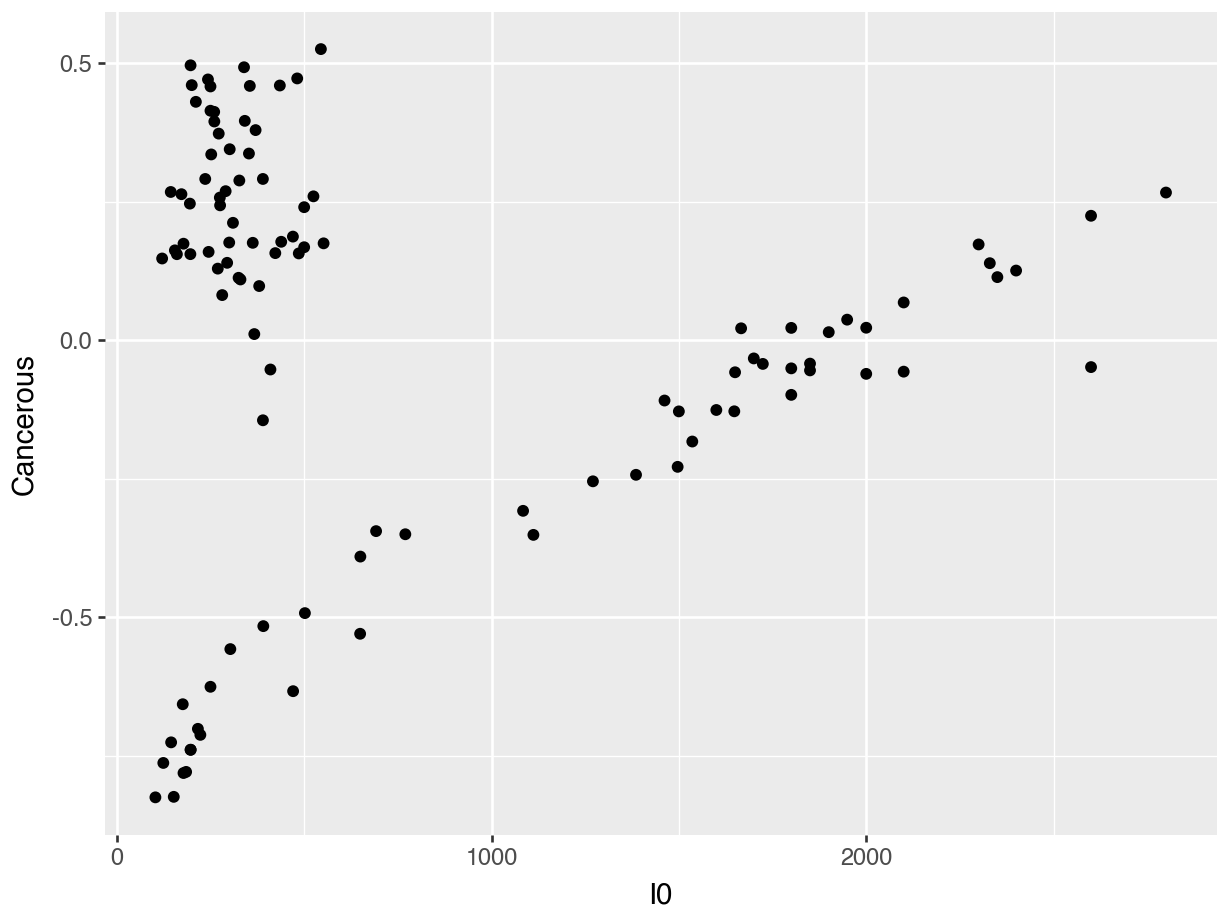
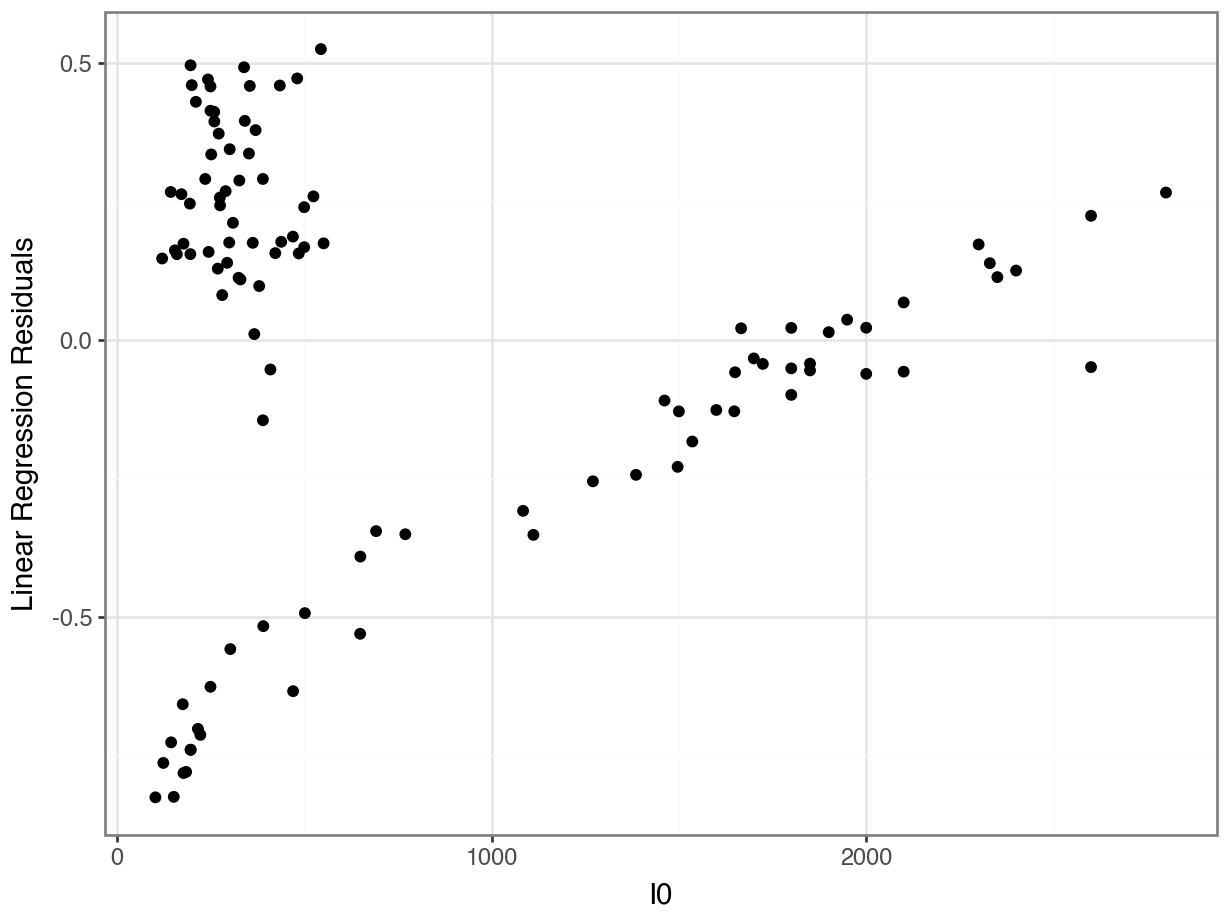
adjustments to slides for today

Changed region(s): [[0.0928, 0.0, 1.0, 0.9121], [0.0, 0.2432, 0.0309, 0.6688]]

diff --git a/docs/slides/12-logistic.html b/docs/slides/12-logistic.html
@@ -397,8 +397,8 @@
 
 </section>
 <section>
-<section id="the-story-so-far.." class="title-slide slide level1 center">
-<h1>The story so far..</h1>
+<section id="the-story-this-week" class="title-slide slide level1 center">
+<h1>The story this week…</h1>
 
 </section>
 <section id="classification" class="slide level2">
@@ -533,7 +533,7 @@
 <div class="cell">
 <div class="sourceCode cell-code" id="cb8"><pre class="sourceCode python code-with-copy"><code class="sourceCode python"><span id="cb8-1"><a aria-hidden="true" tabindex="-1"></a>pred_cancer.<span class="bu">min</span>()</span></code><button title="Copy to Clipboard" class="code-copy-button"><i class="bi"></i></button></pre></div>
 <div class="cell-output cell-output-stdout">
-<pre><code>np.float64(-0.2666656752041746)</code></pre>
+<pre><code>np.float64(-0.2666656752041747)</code></pre>
 </div>
 </div>
 </div><div class="column" style="width:10%;">
@@ -542,7 +542,7 @@
 <div class="cell">
 <div class="sourceCode cell-code" id="cb10"><pre class="sourceCode python code-with-copy"><code class="sourceCode python"><span id="cb10-1"><a aria-hidden="true" tabindex="-1"></a>pred_cancer.<span class="bu">max</span>()</span></code><button title="Copy to Clipboard" class="code-copy-button"><i class="bi"></i></button></pre></div>
 <div class="cell-output cell-output-stdout">
-<pre><code>np.float64(1.1443978861600579)</code></pre>
+<pre><code>np.float64(1.144397886160058)</code></pre>
 </div>
 </div>
 </div></div>
@@ -612,8 +612,10 @@
 <span id="cb15-3"><a aria-hidden="true" tabindex="-1"></a>(</span>
 <span id="cb15-4"><a aria-hidden="true" tabindex="-1"></a>  ggplot(data <span class="op">=</span> df, </span>
 <span id="cb15-5"><a aria-hidden="true" tabindex="-1"></a>         mapping <span class="op">=</span> aes(x <span class="op">=</span> <span class="st">"I0"</span>, y <span class="op">=</span> residuals)) <span class="op">+</span> </span>
-<span id="cb15-6"><a aria-hidden="true" tabindex="-1"></a>  geom_point()</span>
-<span id="cb15-7"><a aria-hidden="true" tabindex="-1"></a>  )</span></code><button title="Copy to Clipboard" class="code-copy-button"><i class="bi"></i></button></pre></div>
+<span id="cb15-6"><a aria-hidden="true" tabindex="-1"></a>  geom_point() <span class="op">+</span></span>
+<span id="cb15-7"><a aria-hidden="true" tabindex="-1"></a>  theme_bw() <span class="op">+</span></span>
+<span id="cb15-8"><a aria-hidden="true" tabindex="-1"></a>  labs(y <span class="op">=</span> <span class="st">"Linear Regression Residuals"</span>)</span>
+<span id="cb15-9"><a aria-hidden="true" tabindex="-1"></a>  ) </span></code><button title="Copy to Clipboard" class="code-copy-button"><i class="bi"></i></button></pre></div>
 </details>
 </div>
 </div>
@@ -730,9 +732,15 @@
 <ul>
 <li><p>Calculate the <em>precision</em> for predicting cancer.</p></li>
 <li><p>Calculate the <em>recall</em> for predicting cancer.</p></li>
+</ul>
+</div>
+<div class="fragment">
+<div class="midi">
+<ul>
 <li><p>Calculate the <em>precision</em> for predicting non-cancer.</p></li>
 <li><p>Calculate the <em>recall</em> for predicting non-cancer.</p></li>
 </ul>
+</div>
 </div>
 </section>
 <section id="threshold" class="slide level2">
@@ -1012,25 +1020,38 @@
 1      0.801477  PA500</code></pre>
 </div>
 </div>
-<div>
-<ul>
-<li class="fragment"><p>“For every <strong>standard deviation above the mean</strong> someone’s <code>I0</code> is, we predict <strong>2.3 lower</strong> log-odds of cancer”</p></li>
-<li class="fragment"><p>“For every <strong>standard deviation above the mean</strong> someone’s <code>PA500</code> is, we predict <strong>0.80 higher</strong> log-odds of cancer.”</p></li>
-</ul>
 </div>
+</section>
+<section id="standardization-2" class="slide level2">
+<h2>Standardization</h2>
+<div class="cell">
+<div class="cell-output cell-output-stdout">
+<pre><code>   Coefficients Column
+0     -2.309090     I0
+1      0.801477  PA500</code></pre>
+</div>
+</div>
+<ul>
+<li>“For every <strong>standard deviation above the mean</strong> someone’s <code>I0</code> is, we predict <strong>2.3 lower</strong> log-odds of cancer”</li>
+</ul>
+<div class="fragment">
+<ul>
+<li>“For every <strong>standard deviation above the mean</strong> someone’s <code>PA500</code> is, we predict <strong>0.80 higher</strong> log-odds of cancer.”</li>
+</ul>
 </div>
 </section>
 <section id="standardization-do-you-need-it" class="slide level2">
 <h2>Standardization: Do you need it?</h2>
+<div class="midi">
 <p>But - does this approach change our predictions?</p>
 <div class="cell">
-<div class="sourceCode cell-code" id="cb48"><pre class="sourceCode python code-with-copy"><code class="sourceCode python"><span id="cb48-1"><a aria-hidden="true" tabindex="-1"></a>old_probs <span class="op">=</span> pipeline.predict_proba(df[[<span class="st">"I0"</span>, <span class="st">"PA500"</span>]])</span>
-<span id="cb48-2"><a aria-hidden="true" tabindex="-1"></a>new_probs <span class="op">=</span> pipeline2.predict_proba(df[[<span class="st">"I0"</span>, <span class="st">"PA500"</span>]])</span>
-<span id="cb48-3"><a aria-hidden="true" tabindex="-1"></a></span>
-<span id="cb48-4"><a aria-hidden="true" tabindex="-1"></a>pd.DataFrame({</span>
-<span id="cb48-5"><a aria-hidden="true" tabindex="-1"></a>  <span class="st">"without_stdize"</span>: old_probs[:,<span class="dv">1</span>], </span>
-<span id="cb48-6"><a aria-hidden="true" tabindex="-1"></a>  <span class="st">"with_stdize"</span>: new_probs[:,<span class="dv">1</span>]</span>
-<span id="cb48-7"><a aria-hidden="true" tabindex="-1"></a>  }).head(<span class="dv">10</span>)</span></code><button title="Copy to Clipboard" class="code-copy-button"><i class="bi"></i></button></pre></div>
+<div class="sourceCode cell-code" id="cb49"><pre class="sourceCode python code-with-copy"><code class="sourceCode python"><span id="cb49-1"><a aria-hidden="true" tabindex="-1"></a>old_probs <span class="op">=</span> pipeline.predict_proba(df[[<span class="st">"I0"</span>, <span class="st">"PA500"</span>]])</span>
+<span id="cb49-2"><a aria-hidden="true" tabindex="-1"></a>new_probs <span class="op">=</span> pipeline2.predict_proba(df[[<span class="st">"I0"</span>, <span class="st">"PA500"</span>]])</span>
+<span id="cb49-3"><a aria-hidden="true" tabindex="-1"></a></span>
+<span id="cb49-4"><a aria-hidden="true" tabindex="-1"></a>pd.DataFrame({</span>
+<span id="cb49-5"><a aria-hidden="true" tabindex="-1"></a>  <span class="st">"without_stdize"</span>: old_probs[:,<span class="dv">1</span>], </span>
+<span id="cb49-6"><a aria-hidden="true" tabindex="-1"></a>  <span class="st">"with_stdize"</span>: new_probs[:,<span class="dv">1</span>]</span>
+<span id="cb49-7"><a aria-hidden="true" tabindex="-1"></a>  }).head(<span class="dv">10</span>)</span></code><button title="Copy to Clipboard" class="code-copy-button"><i class="bi"></i></button></pre></div>
 <div class="cell-output cell-output-stdout">
 <pre><code>   without_stdize  with_stdize
 0        0.736188     0.736226
@@ -1043,6 +1064,7 @@
 7        0.802116     0.802126
 8        0.816982     0.817014
 9        0.847675     0.847702</code></pre>
+</div>
 </div>
 </div>
 </section>
@@ -1075,8 +1097,8 @@
 </section>
 <section id="activity-1" class="slide level2">
 <h2>Activity</h2>
-<p>For your Logistic Regression using <strong>all</strong> predictors, which two were most important?</p>
-<p>How would you interpret the coefficients?</p>
+<p>For your Logistic Regression using <strong>all</strong> predictors, which variable was the most important?</p>
+<p>How would you interpret the coefficient?</p>
 <div class="midi">
 
 </div>
